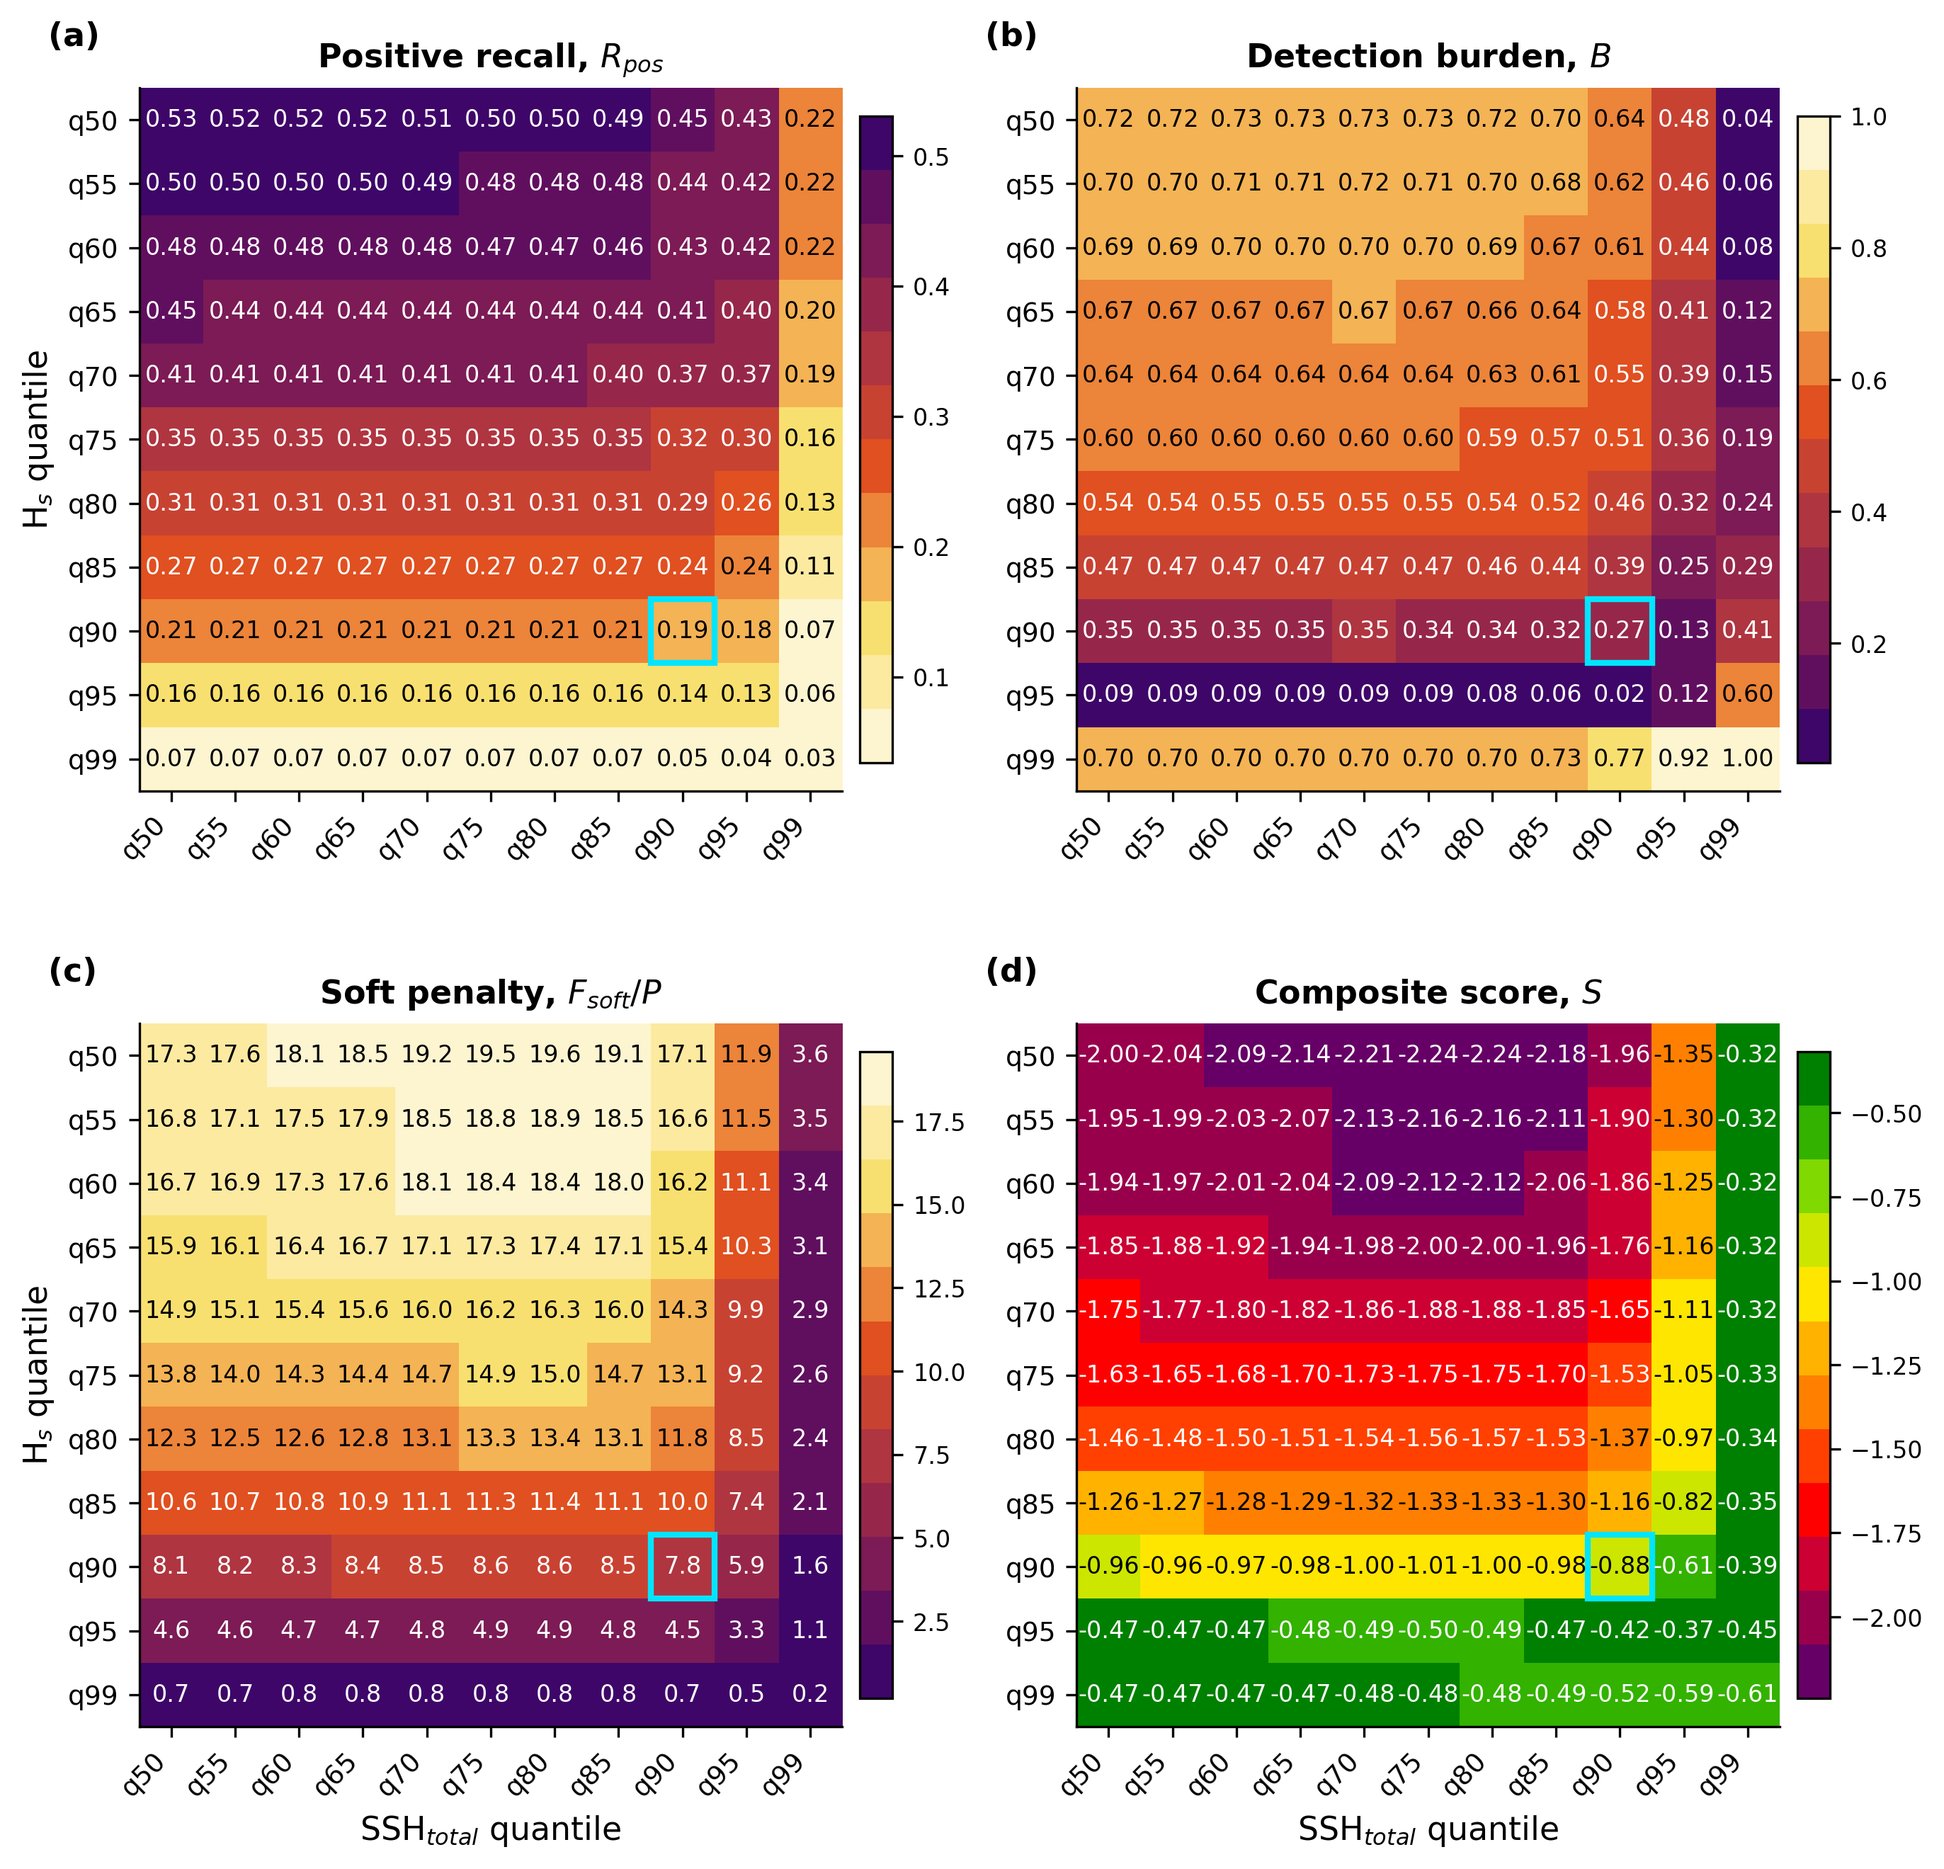
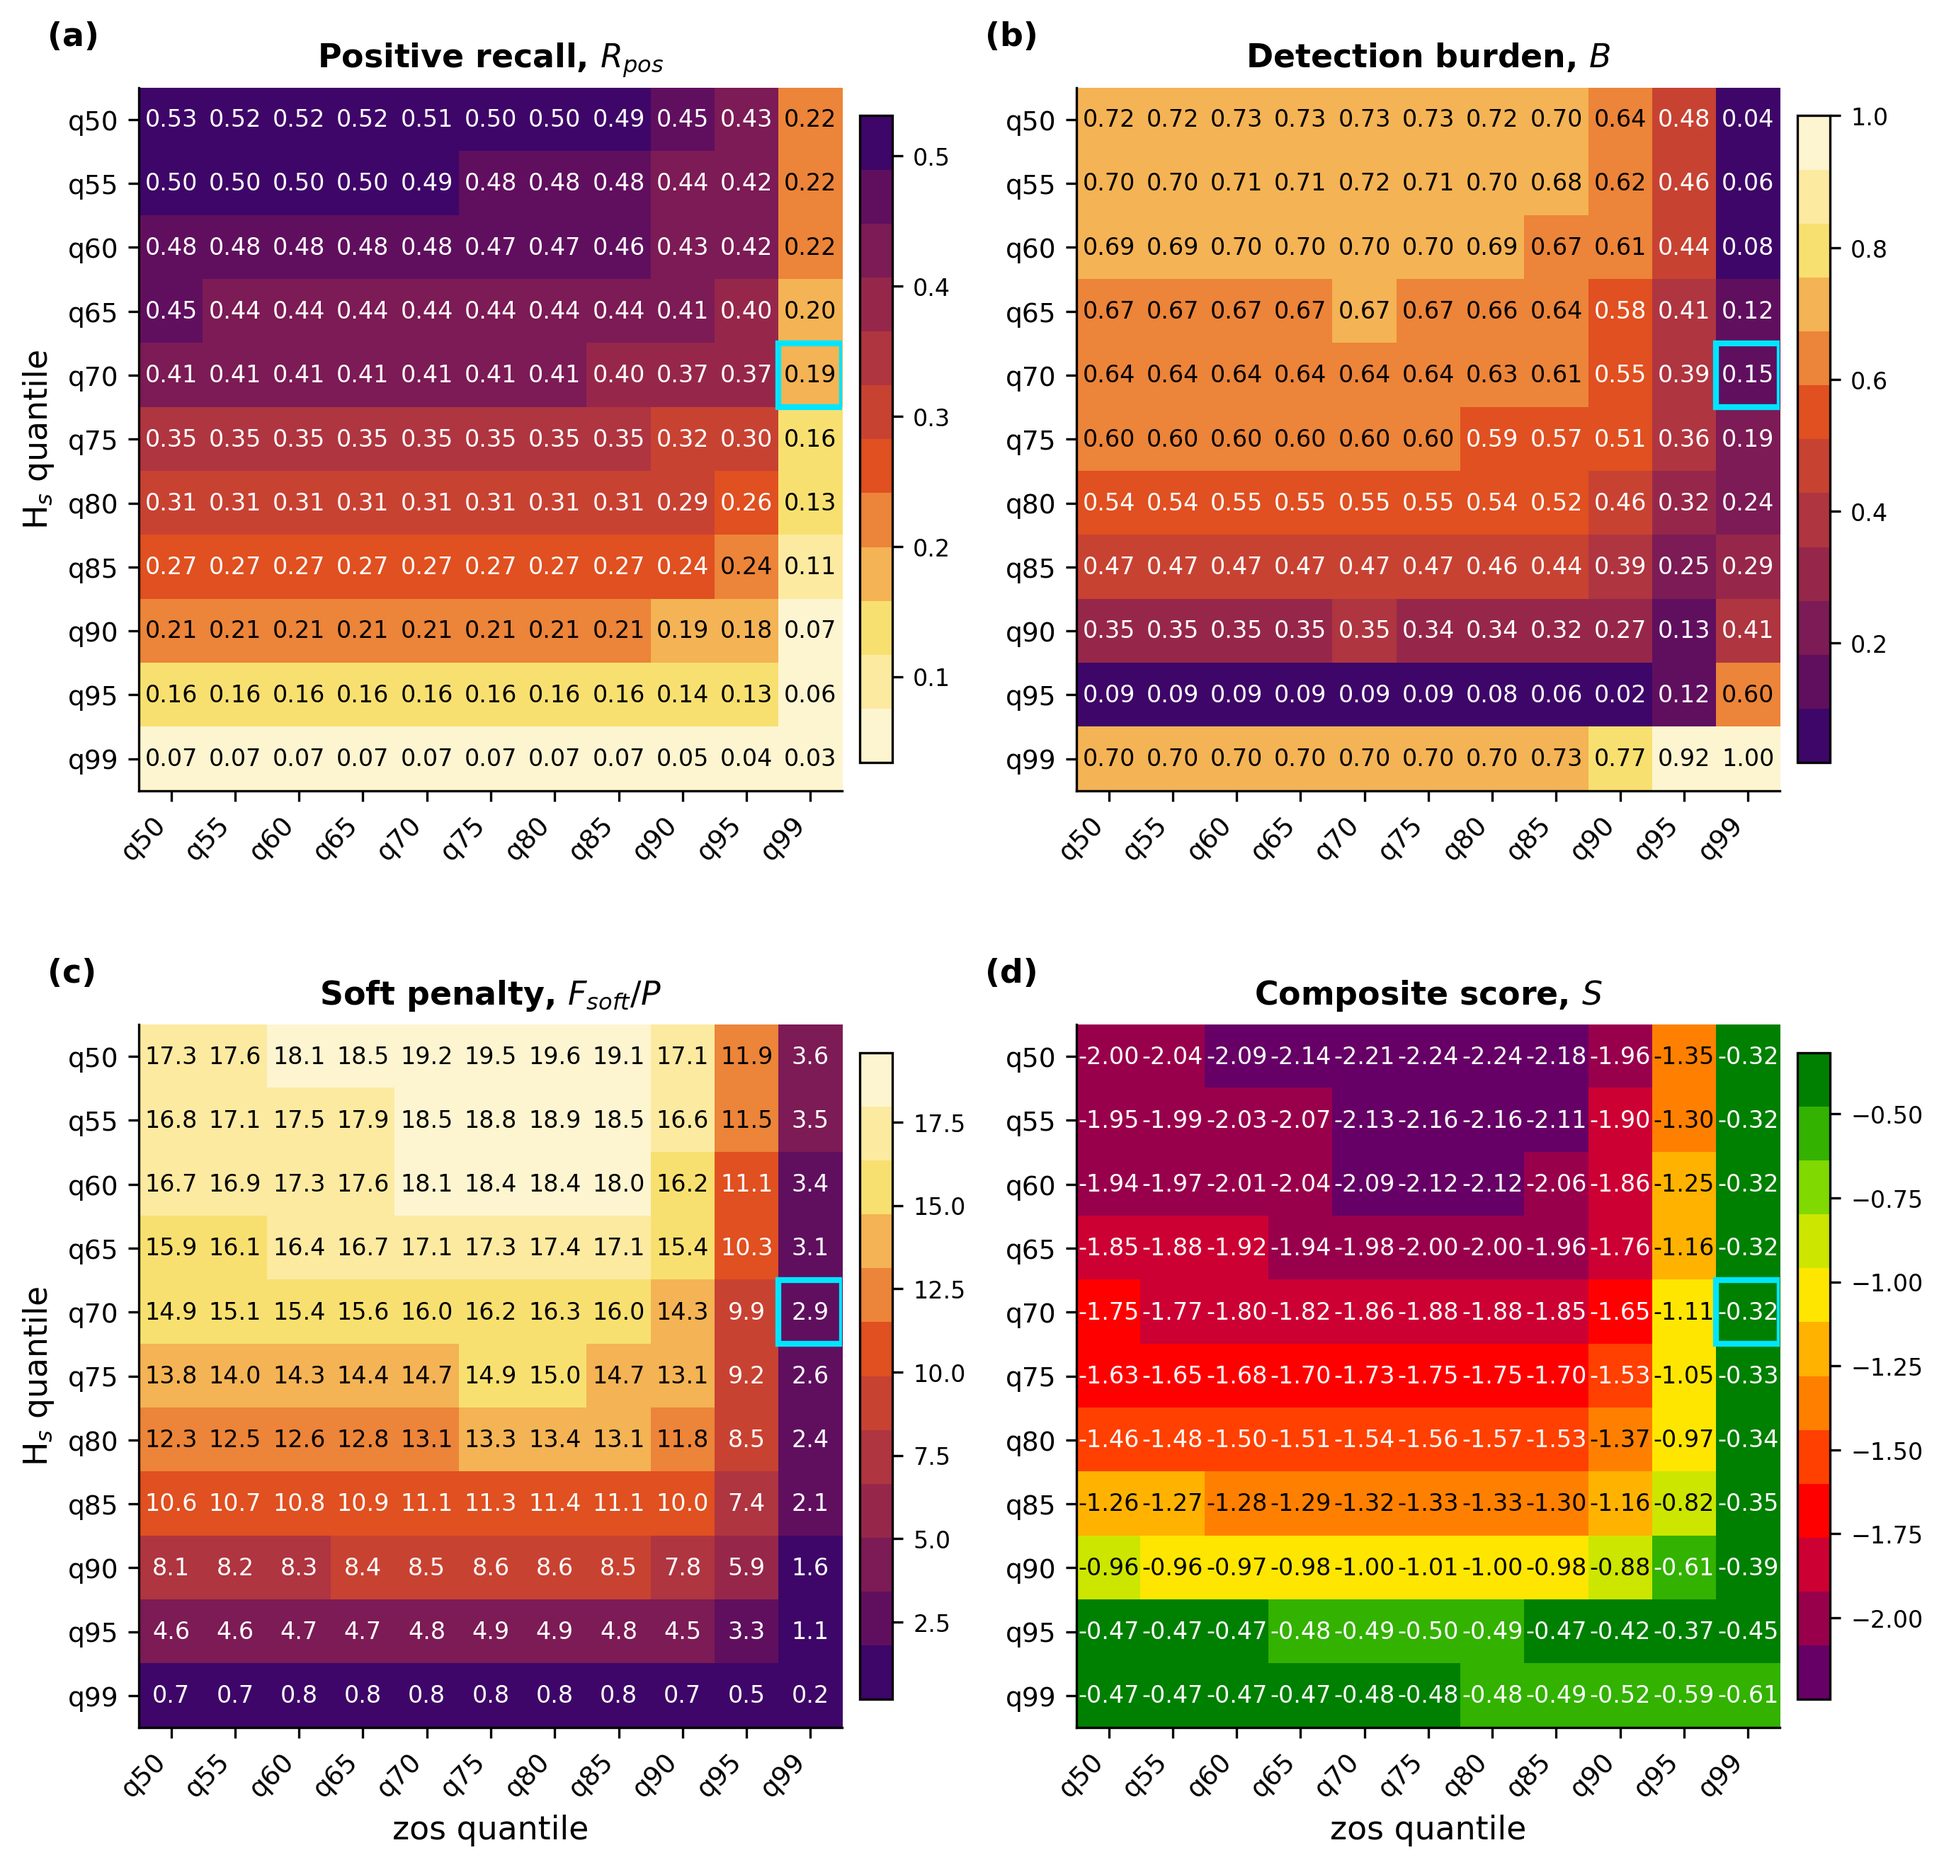
figures: regenerate current PU calibration heatmaps

diff --git a/src/figures_article/make_article_calibration_heatmaps.py b/src/figures_article/make_article_calibration_heatmaps.py
@@ -6,15 +6,15 @@ Suggested LaTeX figure block (requires ``\usepackage{graphicx}``)
     \centering
     \includegraphics[width=\linewidth]{outputs/article_figures/pu_composite_calibration_heatmaps.png}
     \caption{Positive-unlabeled (PU) threshold calibration across the tested
-    combinations of significant wave height ($H_s$) and total sea surface
-    height ($\mathrm{SSH}_{\mathrm{total}}$) quantiles. Panels show
+    combinations of significant wave height ($H_s$) and tide-free sea-level
+    anomaly ($\mathrm{zos}$) quantiles. Panels show
     (a) positive recall ($R_{\mathrm{pos}}$), (b) detection burden ($B$),
     (c) the soft false-positive penalty ($F_{\mathrm{soft}}/P$), and
     (d) the composite score. Colors represent relative performance within each
     panel: higher values are preferred for $R_{\mathrm{pos}}$ and the composite
     score, whereas lower values are preferred for $B$ and
     $F_{\mathrm{soft}}/P$. Cell annotations report the corresponding metric
-    values, and the cyan outline identifies the selected $q_{90}/q_{90}$
+    values, and the cyan outline identifies the selected $q_{70}/q_{99}$
     threshold pair.}
     \label{fig:pu-threshold-calibration}
 \end{figure}
@@ -35,7 +35,7 @@ import numpy as np
 import pandas as pd
 
 from config.plot_config import apply_publication_style
-from src.figures_article.calibration_common import load_score_frame
+from src.figures_article.calibration_common import load_optimal_pair, load_score_frame
 from src.figures_article.figure_io import _save_figure, validate_article_figure_outputs
 
 QUALITY_COLORS_WORSE_TO_BETTER = (
@@ -62,6 +62,7 @@ def _heatmap_panel(
     panel,
     show_xlabel,
     show_ylabel,
+    selected_pair,
     cmap_override=None,
 ):
     matrix = data.pivot(index="hs_percentile", columns="ssh_percentile", values=metric).sort_index()
@@ -72,7 +73,7 @@ def _heatmap_panel(
     image = ax.imshow(values, cmap=cmap, norm=norm, aspect="equal", origin="upper")
     ax.set_xticks(range(len(matrix.columns)), [f"q{int(v)}" for v in matrix.columns], rotation=45, ha="right")
     ax.set_yticks(range(len(matrix.index)), [f"q{int(v)}" for v in matrix.index])
-    ax.set_xlabel(r"SSH$_{total}$ quantile" if show_xlabel else "")
+    ax.set_xlabel(r"zos quantile" if show_xlabel else "")
     ax.set_ylabel(r"H$_s$ quantile" if show_ylabel else "")
     ax.set_title(title, fontweight="bold", pad=7)
     ax.grid(False)
@@ -84,8 +85,10 @@ def _heatmap_panel(
             luminance = 0.299 * rgba[0] + 0.587 * rgba[1] + 0.114 * rgba[2]
             ax.text(col, row, format(value, fmt), ha="center", va="center", fontsize=8,
                     color="black" if luminance > 0.55 else "white")
-    if 90 in matrix.index and 90 in matrix.columns:
-        row, col = list(matrix.index).index(90), list(matrix.columns).index(90)
+    selected_hs, selected_zos = selected_pair
+    if selected_hs in matrix.index and selected_zos in matrix.columns:
+        row = list(matrix.index).index(selected_hs)
+        col = list(matrix.columns).index(selected_zos)
         ax.add_patch(Rectangle((col - 0.5, row - 0.5), 1, 1, fill=False,
                                edgecolor="#00E5FF", linewidth=2.0))
     colorbar = ax.figure.colorbar(image, ax=ax, fraction=0.046, pad=0.025)
@@ -96,6 +99,7 @@ def _heatmap_panel(
 def generate_calibration_heatmaps(data: pd.DataFrame | None = None) -> list[str]:
     apply_publication_style()
     data = load_score_frame() if data is None else data
+    selected_pair = load_optimal_pair()
     fig, axes = plt.subplots(2, 2, figsize=(9.0, 9.0), constrained_layout=True)
     fig.get_layout_engine().set(w_pad=0.02, h_pad=0.02, wspace=0.015, hspace=0.015)
     panels = (
@@ -108,7 +112,8 @@ def generate_calibration_heatmaps(data: pd.DataFrame | None = None) -> list[str]
         metric, title, higher, fmt, panel, cmap = args
         _heatmap_panel(ax, data, metric, title, higher_is_better=higher, fmt=fmt,
                        panel=panel, show_xlabel=index >= 2,
-                       show_ylabel=index % 2 == 0, cmap_override=cmap)
+                       show_ylabel=index % 2 == 0, selected_pair=selected_pair,
+                       cmap_override=cmap)
     return _save_figure(fig, "pu_composite_calibration_heatmaps")
 
 

diff --git a/src/figures_article/calibration_common.py b/src/figures_article/calibration_common.py
@@ -33,6 +33,7 @@ def _relative(path: Path) -> str:
 
 MUNICIPALITIES_GEOJSON = CURRENT_RISK_GEOJSON
 SCORE_DATA = ROOT / "site/public/data/tc5_score_decomposition.json"
+SCORE_SUMMARY = ROOT / "site/public/data/tc5_decomposition_summary.json"
 GRID_REFERENCE = ROOT / "outputs/preprocessing/municipality_grid_ref.csv"
 EXPANDED_EVENTS = ROOT / "data/reported events/ressaca_sc_eventos_sc_1998_2020_consolidated_expandido.csv"
 LEGACY_EVENTS = ROOT / "data/reported events/reported_events_Karine_sc.csv"
@@ -56,6 +57,13 @@ def load_score_frame() -> pd.DataFrame:
     if missing:
         raise ValueError(f"Missing score-decomposition fields: {sorted(missing)}")
     return frame
+
+
+def load_optimal_pair() -> tuple[int, int]:
+    """Read the selected production pair from the versioned TC5 summary."""
+    with SCORE_SUMMARY.open(encoding="utf-8") as handle:
+        optimal = json.load(handle)["score_optimal"]
+    return int(optimal["hs_percentile"]), int(optimal["ssh_percentile"])
 
 
 def study_municipalities() -> pd.DataFrame:
